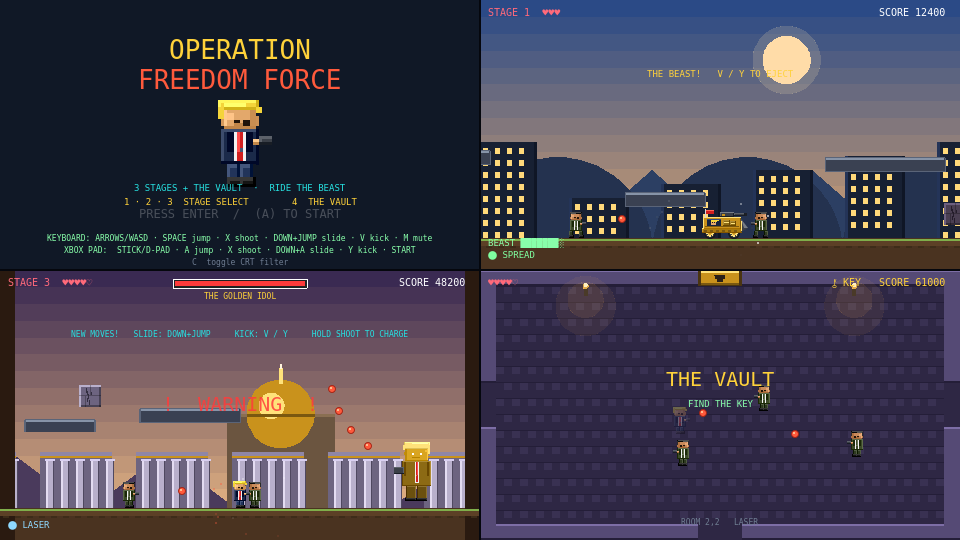
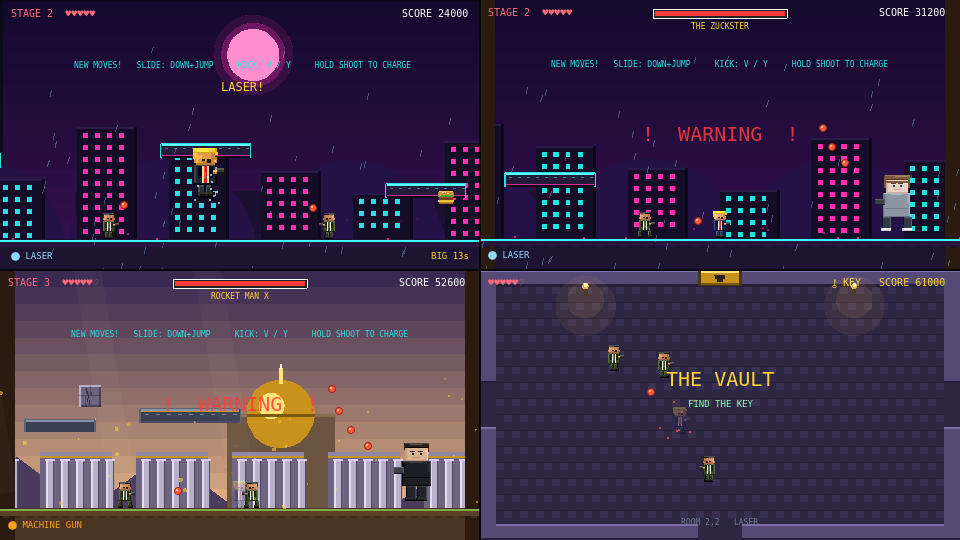
Escalate the visuals stage by stage
The stages were the same scene in different paint. Each now has its own
weather layer, drawn in screen space in front of the parallax, and they get
busier as you climb: Stage 1 gets slow dusk motes, Stage 2 gets rain with
sparks kicking off the wet ground, Stage 3 gets rising gold embers and shafts
of dawn light.

Platforms were flat rectangles with a highlight line, and they are on screen
the entire time, so they were the cheapest thing left dragging the look down.
They now carry theme detail: riveted grating in the city, circuit dashes with
a pink underglow in the neon stage, gold inlay and veining on the marble.

README screenshot regenerated — the old one predated the renamed bosses, the
weather and BIG DONALD.

diff --git a/game.js b/game.js
@@ -587,9 +587,11 @@ class GameScene extends Phaser.Scene {
     CRT.apply(this);
 
     this.buildBackground(this.levelData.theme);
+    this.buildAtmosphere(this.levelData.theme);
 
     // ---- solids (ground + platforms) ----
-    const neon = this.levelData.theme === 'neon';
+    const theme = this.levelData.theme;
+    const neon = theme === 'neon';
     this.solids = this.add.group();
     this.addSolid(WORLD_W / 2, GROUND_TOP + 18, WORLD_W, 40, neon ? 0x1c1430 : 0x4a3320);
     // shaded ground surface drawn over the ground body (lit edge + soil + dither)
@@ -600,9 +602,31 @@ class GameScene extends Phaser.Scene {
     for (let x = 0; x < WORLD_W; x += 6) gsurf.fillRect(x + ((Math.floor(x / 6) % 2) ? 3 : 0), GROUND_TOP + 6, 3, 2);
     const platCol = neon ? 0x241a3a : 0x3a4152, platStroke = neon ? 0x27e0e0 : 0x5a6478;
     const platHi = neon ? 0x5affff : 0x8794a8;
+    // Platforms get theme-specific surface detail. They are on screen the whole
+    // time, so flat rectangles were the cheapest thing left dragging the look down.
+    const pg = this.add.graphics().setDepth(1);
     this.levelData.plats.forEach(pl => {
-      this.addSolid(pl[0], pl[1], pl[2], 14, platCol, platStroke);
-      this.add.rectangle(pl[0], pl[1] - 6, pl[2] - 2, 2, platHi).setDepth(1);   // lit top edge
+      const [px, py, pw] = pl;
+      this.addSolid(px, py, pw, 14, platCol, platStroke);
+      const L = px - pw / 2, T = py - 7;
+      pg.fillStyle(platHi, 1).fillRect(L + 1, T, pw - 2, 2);              // lit top edge
+      if (theme === 'marble') {
+        pg.fillStyle(0xc9921c, 1).fillRect(L + 1, T + 2, pw - 2, 1);      // gold inlay
+        pg.fillStyle(0x8f86a6, 0.9);
+        for (let v = L + 5; v < L + pw - 4; v += 11) pg.fillRect(v, T + 5, 4, 1);   // veining
+        pg.fillStyle(0x4f4860, 1).fillRect(L + 1, T + 12, pw - 2, 2);     // underside shadow
+      } else if (theme === 'neon') {
+        pg.fillStyle(0x27e0e0, 0.55);
+        for (let v = L + 4; v < L + pw - 3; v += 9) pg.fillRect(v, T + 4, 3, 1);    // circuit dashes
+        pg.fillStyle(0xff2fae, 0.8).fillRect(L + 1, T + 11, pw - 2, 1);   // underglow
+        pg.fillStyle(0x0d0718, 1).fillRect(L + 1, T + 12, pw - 2, 2);
+      } else {
+        pg.fillStyle(0x2c3444, 1);
+        for (let v = L + 4; v < L + pw - 3; v += 8) pg.fillRect(v, T + 5, 2, 4);    // grating slots
+        pg.fillStyle(0x8794a8, 1);
+        pg.fillRect(L + 2, T + 3, 1, 1); pg.fillRect(L + pw - 3, T + 3, 1, 1);      // rivets
+        pg.fillStyle(0x1b2230, 1).fillRect(L + 1, T + 12, pw - 2, 2);
+      }
     });
 
     // ---- groups ----
@@ -821,6 +845,58 @@ class GameScene extends Phaser.Scene {
         bld.fillStyle(0xffd97a, 1);
         for (let wy = GROUND_TOP - bh + 6; wy < GROUND_TOP - 6; wy += 12)
           for (let wx = x + 6; wx < x + 54; wx += 12) bld.fillRect(wx, wy, 5, 6);
+      }
+    }
+  }
+
+  // Screen-space weather, one layer per theme, drifting on its own tween. Sits
+  // in front of the parallax but behind everything that matters, and gets
+  // busier stage by stage so the game reads as climbing rather than reskinning.
+  buildAtmosphere(theme) {
+    const mk = (n, make) => { for (let i = 0; i < n; i++) make(i); };
+    if (theme === 'city') {
+      // dusk haze: slow motes catching the last light
+      mk(26, () => {
+        const x = Math.random() * GAME_W, y = 40 + Math.random() * 180;
+        const d = this.add.circle(x, y, Math.random() < 0.7 ? 1 : 2, 0xffd9a0, 0.22)
+          .setScrollFactor(0).setDepth(2);
+        this.tweens.add({ targets: d, x: x + 40 + Math.random() * 60, y: y - 20 - Math.random() * 30,
+          alpha: 0, duration: 5000 + Math.random() * 5000, repeat: -1, delay: Math.random() * 4000,
+          onRepeat: () => { d.x = -10; d.y = 40 + Math.random() * 180; d.alpha = 0.22; } });
+      });
+    } else if (theme === 'neon') {
+      // rain, plus sparks kicking off the wet ground
+      mk(60, () => {
+        const x = Math.random() * GAME_W, y = Math.random() * GAME_H;
+        const r = this.add.rectangle(x, y, 1, 7, 0x8fd9ff, 0.34).setScrollFactor(0).setDepth(2);
+        r.rotation = 0.18;
+        this.tweens.add({ targets: r, y: GAME_H + 10, x: x + 26,
+          duration: 620 + Math.random() * 420, repeat: -1, delay: Math.random() * 900,
+          onRepeat: () => { r.y = -10; r.x = Math.random() * GAME_W; } });
+      });
+      mk(10, () => {
+        const x = Math.random() * GAME_W;
+        const s = this.add.rectangle(x, GROUND_TOP - 2, 2, 2, 0xff2fae, 0.8).setScrollFactor(0).setDepth(3);
+        this.tweens.add({ targets: s, y: GROUND_TOP - 16 - Math.random() * 10, alpha: 0,
+          duration: 500 + Math.random() * 400, repeat: -1, delay: Math.random() * 2600,
+          onRepeat: () => { s.x = Math.random() * GAME_W; s.y = GROUND_TOP - 2; s.alpha = 0.8; } });
+      });
+    } else if (theme === 'marble') {
+      // gold embers rising, and shafts of dawn light
+      mk(34, () => {
+        const x = Math.random() * GAME_W, y = 120 + Math.random() * 130;
+        const e = this.add.circle(x, y, Math.random() < 0.6 ? 1 : 2, 0xffd23a, 0.55)
+          .setScrollFactor(0).setDepth(2);
+        this.tweens.add({ targets: e, y: y - 90 - Math.random() * 70, x: x + (Math.random() * 30 - 15),
+          alpha: 0, duration: 3200 + Math.random() * 2600, repeat: -1, delay: Math.random() * 3000,
+          onRepeat: () => { e.x = Math.random() * GAME_W; e.y = 120 + Math.random() * 130; e.alpha = 0.55; } });
+      });
+      for (let i = 0; i < 4; i++) {
+        const sx = 40 + i * 120;
+        const beam = this.add.rectangle(sx, 110, 26, 230, 0xffe9c4, 0.05)
+          .setScrollFactor(0.06).setDepth(1);
+        beam.rotation = -0.16;
+        this.tweens.add({ targets: beam, alpha: 0.11, duration: 2600 + i * 400, yoyo: true, repeat: -1 });
       }
     }
   }

diff --git a/README.md b/README.md
@@ -6,11 +6,11 @@ of public figures.
 
 **▶ [Play it in your browser](https://madmartigan1.github.io/freedom-force/)**
 
-![Operation: Freedom Force — the title screen, riding THE BEAST, the Golden Idol boss fight, and a room inside THE VAULT](docs/screenshot.png)
+![Operation: Freedom Force — BIG DONALD in the rain, the boss fights against THE ZUCKSTER and ROCKET MAN X, and a room inside THE VAULT](docs/screenshot.png)
 
-*Clockwise from top left: the title screen, THE BEAST mid-charge, a room in THE
-VAULT, and the Stage 3 boss. Shown with the CRT filter off — press `C` in game
-to turn it on.*
+*Clockwise from top left: BIG DONALD in the Stage 2 rain, THE ZUCKSTER, a room
+in THE VAULT, and ROCKET MAN X. Shown with the CRT filter off — press `C` in
+game to turn it on.*
 
 Runs in a browser. No build step, no install, no network. Every sprite you can
 see and every sound you can hear is generated at runtime; there is not a single
